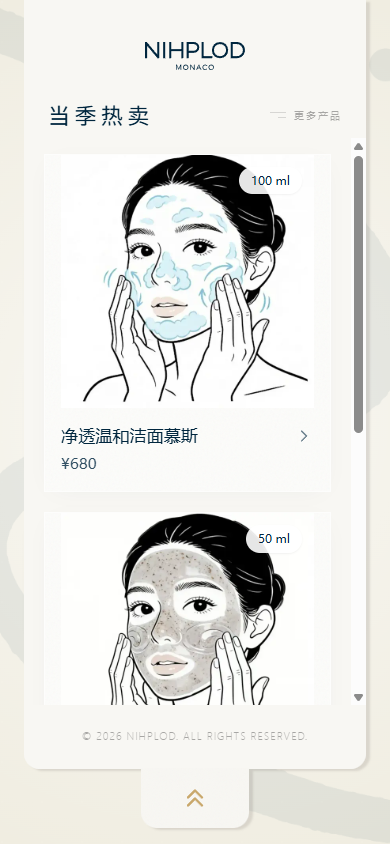
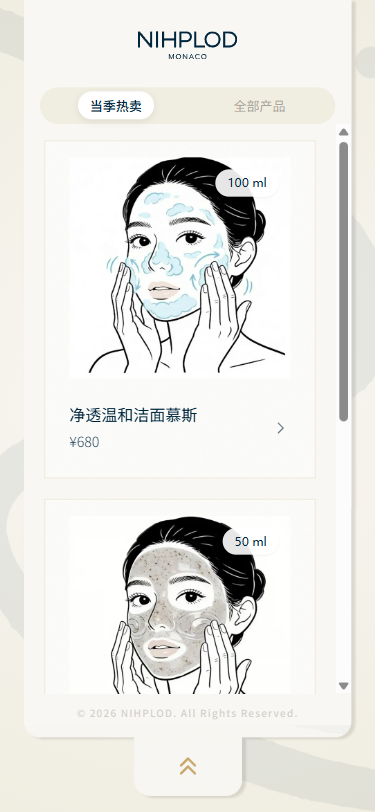
1

diff --git a/src/app/(website)/products/ProductsContent.tsx b/src/app/(website)/products/ProductsContent.tsx
@@ -495,8 +495,8 @@ export function ProductsContent({ categories, products }: ProductsContentProps) 
               </div>
 
               {/* 下方：产品信息 */}
-              <div className="relative z-10 flex items-center justify-between p-6">
-                <div className="flex flex-col gap-1">
+              <div className="relative z-10 flex items-center justify-between py-5 pl-5 pr-3">
+                <div className="flex flex-col items-start gap-1 max-w-fit">
                   <p
                     className="text-[16px] font-normal text-[#00263e] leading-[24px] line-clamp-1 text-left"
                     style={{ fontFamily: "'Source Han Sans SC', 'PingFang SC', sans-serif" }}

diff --git a/products-desktop.md b/products-desktop.md
@@ -1,0 +1,88 @@
+- generic [active] [ref=e1]:
+  - generic [ref=e2]:
+    - generic:
+      - generic:
+        - img "Watermark PC"
+      - generic [ref=e3]:
+        - generic [ref=e4]:
+          - link "了解产品" [ref=e5] [cursor=pointer]:
+            - /url: /products
+          - img "Brand Story" [ref=e6]
+          - generic:
+            - generic: 探索产品
+        - generic [ref=e7]:
+          - generic [ref=e8]:
+            - text: 更少步骤
+            - text: 更多呵护
+          - generic [ref=e9]:
+            - text: 美丽不该复杂
+            - text: 专注美好生活
+        - generic [ref=e10]:
+          - link "官方指南" [ref=e11] [cursor=pointer]:
+            - /url: /guide
+          - img "官方指南" [ref=e12]
+          - generic:
+            - generic: 官方指南
+        - generic [ref=e13]:
+          - link "关于旎柏" [ref=e14] [cursor=pointer]:
+            - /url: /about
+          - img "Product Desktop" [ref=e15]
+        - generic [ref=e16]:
+          - generic [ref=e17]: 逆转时光
+          - generic [ref=e18]: REVERSE TIME
+        - generic [ref=e20]:
+          - img "User Profile" [ref=e27]
+          - button "立即登录" [ref=e28] [cursor=pointer]:
+            - generic [ref=e29]: 立即登录
+            - img [ref=e30]
+    - main:
+      - generic:
+        - generic:
+          - generic:
+            - generic [ref=e40]:
+              - navigation [ref=e41]:
+                - link "Logo" [ref=e42] [cursor=pointer]:
+                  - /url: /
+                  - img "Logo" [ref=e44]
+                - generic [ref=e45]:
+                  - button "洁面" [ref=e46] [cursor=pointer]: 洁面
+                  - button "磨砂膏" [ref=e47] [cursor=pointer]: 磨砂膏
+                  - button "面膜" [ref=e48] [cursor=pointer]: 面膜
+                  - button "精华" [ref=e49] [cursor=pointer]: 精华
+                  - button "面霜" [ref=e50] [cursor=pointer]: 面霜
+                  - button "防晒" [ref=e51] [cursor=pointer]: 防晒
+                  - button "护手霜" [ref=e52] [cursor=pointer]: 护手霜
+                  - button "身体护理" [ref=e53] [cursor=pointer]: 身体护理
+                  - button "护理油" [ref=e54] [cursor=pointer]: 护理油
+                  - button "礼盒套装" [ref=e55] [cursor=pointer]: 礼盒套装
+              - generic [ref=e57]:
+                - generic [ref=e58]:
+                  - heading "当季热卖" [level=1] [ref=e60]
+                  - generic [ref=e61]:
+                    - link "净透温和洁面慕斯 净透温和洁面慕斯 100 ml" [ref=e62] [cursor=pointer]:
+                      - /url: /products/foam-cleanser
+                      - generic [ref=e63]:
+                        - img "净透温和洁面慕斯" [ref=e65]
+                        - generic [ref=e66]:
+                          - heading "净透温和洁面慕斯" [level=2] [ref=e67]
+                          - generic [ref=e68]: 100 ml
+                    - link "匀衡磨砂膏 匀衡磨砂膏 50 ml" [ref=e69] [cursor=pointer]:
+                      - /url: /products/face-scrub
+                      - generic [ref=e70]:
+                        - img "匀衡磨砂膏" [ref=e72]
+                        - generic [ref=e73]:
+                          - heading "匀衡磨砂膏" [level=2] [ref=e74]
+                          - generic [ref=e75]: 50 ml
+                    - link "臻奢赋活莱赛尔面膜 臻奢赋活莱赛尔面膜 30g × 4" [ref=e76] [cursor=pointer]:
+                      - /url: /products/face-mask
+                      - generic [ref=e77]:
+                        - img "臻奢赋活莱赛尔面膜" [ref=e79]
+                        - generic [ref=e80]:
+                          - heading "臻奢赋活莱赛尔面膜" [level=2] [ref=e81]
+                          - generic [ref=e82]: 30g × 4
+                - paragraph [ref=e84]: © 2026 NIHPLOD. All Rights Reserved.
+            - button [ref=e32] [cursor=pointer]:
+              - generic [ref=e33]:
+                - img [ref=e34]
+                - img [ref=e36]
+  - alert [ref=e85]

diff --git a/products-mobile.md b/products-mobile.md
@@ -1,0 +1,74 @@
+- generic [active] [ref=e1]:
+  - generic [ref=e2]:
+    - generic:
+      - generic:
+        - generic:
+          - img "Watermark Mobile"
+      - generic [ref=e3]:
+        - generic [ref=e4]:
+          - link "了解产品" [ref=e5] [cursor=pointer]:
+            - /url: /products
+          - img "Brand Story" [ref=e6]
+        - generic [ref=e7]:
+          - link "官方指南" [ref=e8] [cursor=pointer]:
+            - /url: /guide
+          - img "官方指南" [ref=e9]
+        - generic [ref=e10]:
+          - link "关于旎柏" [ref=e11] [cursor=pointer]:
+            - /url: /about
+          - img "Product Mobile" [ref=e12]
+        - generic [ref=e14]:
+          - img "User Profile" [ref=e21]
+          - button "立即登录" [ref=e22] [cursor=pointer]:
+            - generic [ref=e23]: 立即登录
+            - img [ref=e24]
+    - main:
+      - generic:
+        - generic:
+          - generic:
+            - generic [ref=e35]:
+              - link "NIHPLOD Logo" [ref=e37] [cursor=pointer]:
+                - /url: /
+                - img "NIHPLOD Logo" [ref=e39]
+              - navigation [ref=e41]:
+                - button "当季热卖" [ref=e42] [cursor=pointer]:
+                  - generic [ref=e43]: 当季热卖
+                - button "全部产品" [ref=e44] [cursor=pointer]:
+                  - generic [ref=e45]: 全部产品
+              - generic [ref=e46]:
+                - link "100 ml 净透温和洁面慕斯 净透温和洁面慕斯 ¥680" [ref=e48] [cursor=pointer]:
+                  - /url: /products/foam-cleanser
+                  - generic [ref=e49]:
+                    - generic [ref=e50]: 100 ml
+                    - img "净透温和洁面慕斯" [ref=e51]
+                  - generic [ref=e52]:
+                    - generic [ref=e53]:
+                      - paragraph [ref=e54]: 净透温和洁面慕斯
+                      - paragraph [ref=e55]: ¥680
+                    - img [ref=e56]
+                - link "50 ml 匀衡磨砂膏 匀衡磨砂膏 ¥780" [ref=e59] [cursor=pointer]:
+                  - /url: /products/face-scrub
+                  - generic [ref=e60]:
+                    - generic [ref=e61]: 50 ml
+                    - img "匀衡磨砂膏" [ref=e62]
+                  - generic [ref=e63]:
+                    - generic [ref=e64]:
+                      - paragraph [ref=e65]: 匀衡磨砂膏
+                      - paragraph [ref=e66]: ¥780
+                    - img [ref=e67]
+                - link "30g × 4 臻奢赋活莱赛尔面膜 臻奢赋活莱赛尔面膜 ¥1,350" [ref=e70] [cursor=pointer]:
+                  - /url: /products/face-mask
+                  - generic [ref=e71]:
+                    - generic [ref=e72]: 30g × 4
+                    - img "臻奢赋活莱赛尔面膜" [ref=e73]
+                  - generic [ref=e74]:
+                    - generic [ref=e75]:
+                      - paragraph [ref=e76]: 臻奢赋活莱赛尔面膜
+                      - paragraph [ref=e77]: ¥1,350
+                    - img [ref=e78]
+              - paragraph [ref=e81]: © 2026 NIHPLOD. All Rights Reserved.
+            - button [ref=e26] [cursor=pointer]:
+              - generic [ref=e27]:
+                - img [ref=e28]
+                - img [ref=e30]
+  - alert [ref=e82]
